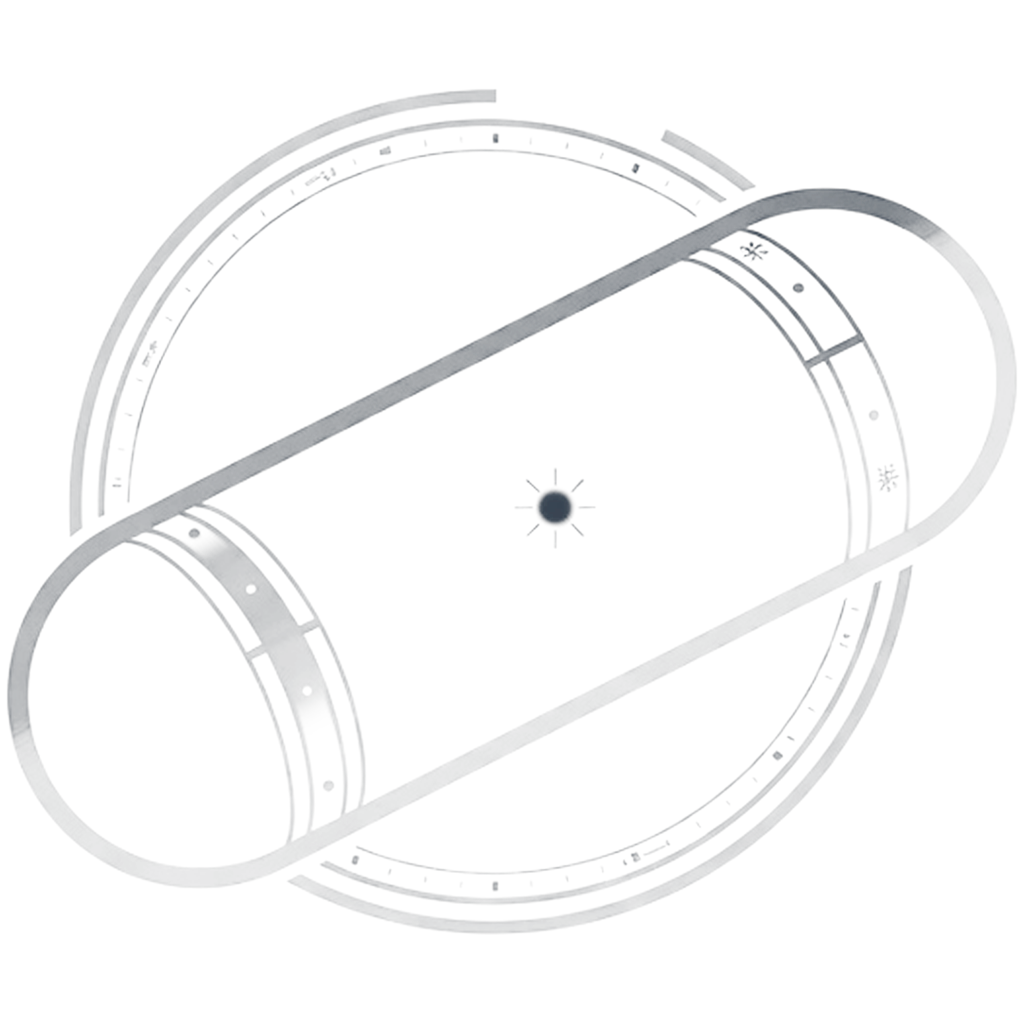
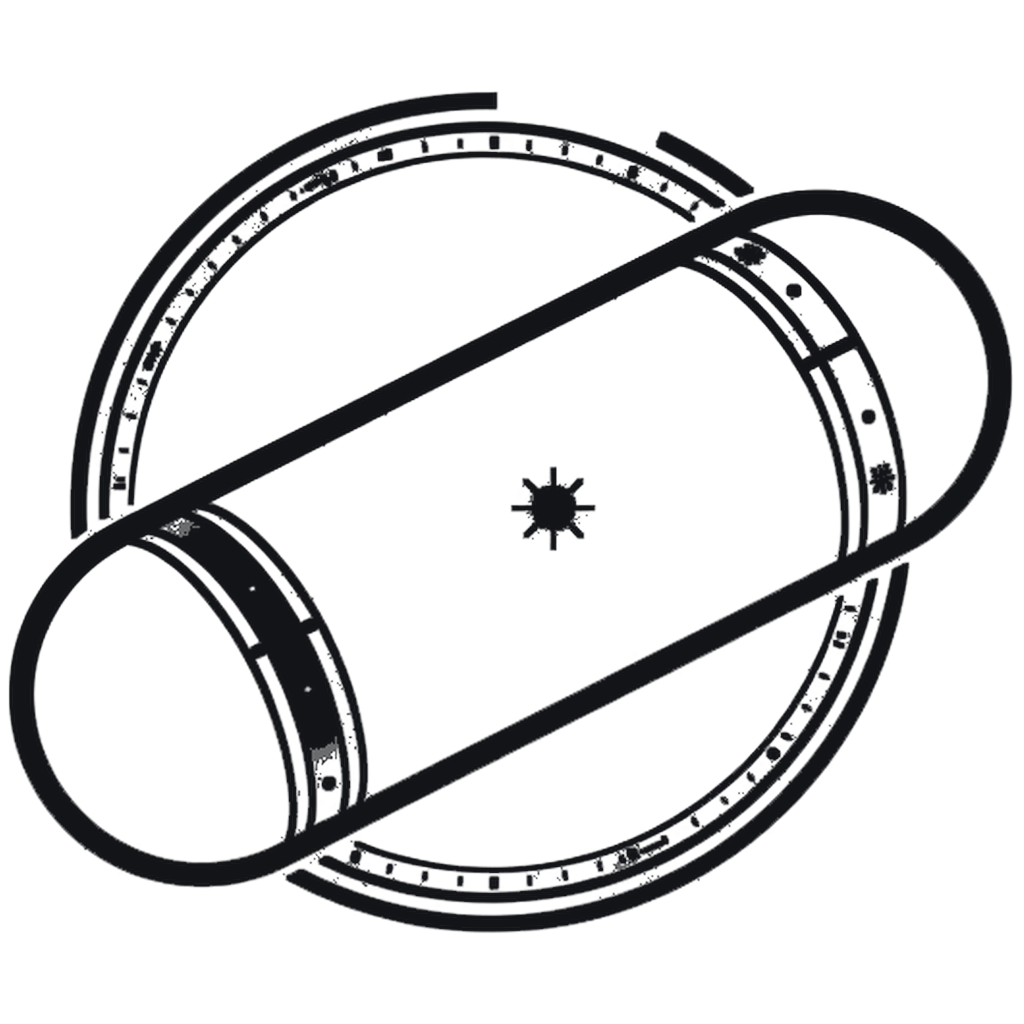
ve-capsule: punch up mark contrast on light and dark
Near-black strokes on light, near-white on dark, higher stroke opacity and
slightly larger nav mark so the instrument logo actually reads.

Changed region(s): [[0.0, 0.0625, 1.0, 0.9375], [0.5, 0.4375, 0.5938, 0.5312]]

diff --git a/ve-capsule/index.html b/ve-capsule/index.html
@@ -51,7 +51,7 @@
   nav{position:sticky;top:0;z-index:10;backdrop-filter:saturate(1.1) blur(8px);
     background:color-mix(in srgb,var(--bg) 86%,transparent);border-bottom:1px solid var(--line)}
   nav .wrap{display:flex;align-items:center;gap:.6rem;height:3.4rem}
-  nav .mark{width:1.85rem;height:1.85rem;flex:none;display:block;position:relative;
+  nav .mark{width:2rem;height:2rem;flex:none;display:block;position:relative;
     background:transparent}
   nav .mark img{display:block;width:100%;height:100%;object-fit:contain}
   /* dark-line art on light page; light-line art on dark page */
@@ -182,7 +182,7 @@
   .stat .from{font-family:var(--mono);font-size:.95rem;color:var(--faint);
     text-decoration:line-through;text-decoration-thickness:1px}
   .stat .arrow{color:var(--faint)}
-  .stat .glyph{width:2.1rem;height:2.1rem;flex:none;background:transparent;position:relative}
+  .stat .glyph{width:2.25rem;height:2.25rem;flex:none;background:transparent;position:relative}
   .stat .glyph img{display:block;width:100%;height:100%;object-fit:contain}
   .stat .glyph .mk-dark{display:none}
   @media (prefers-color-scheme:dark){